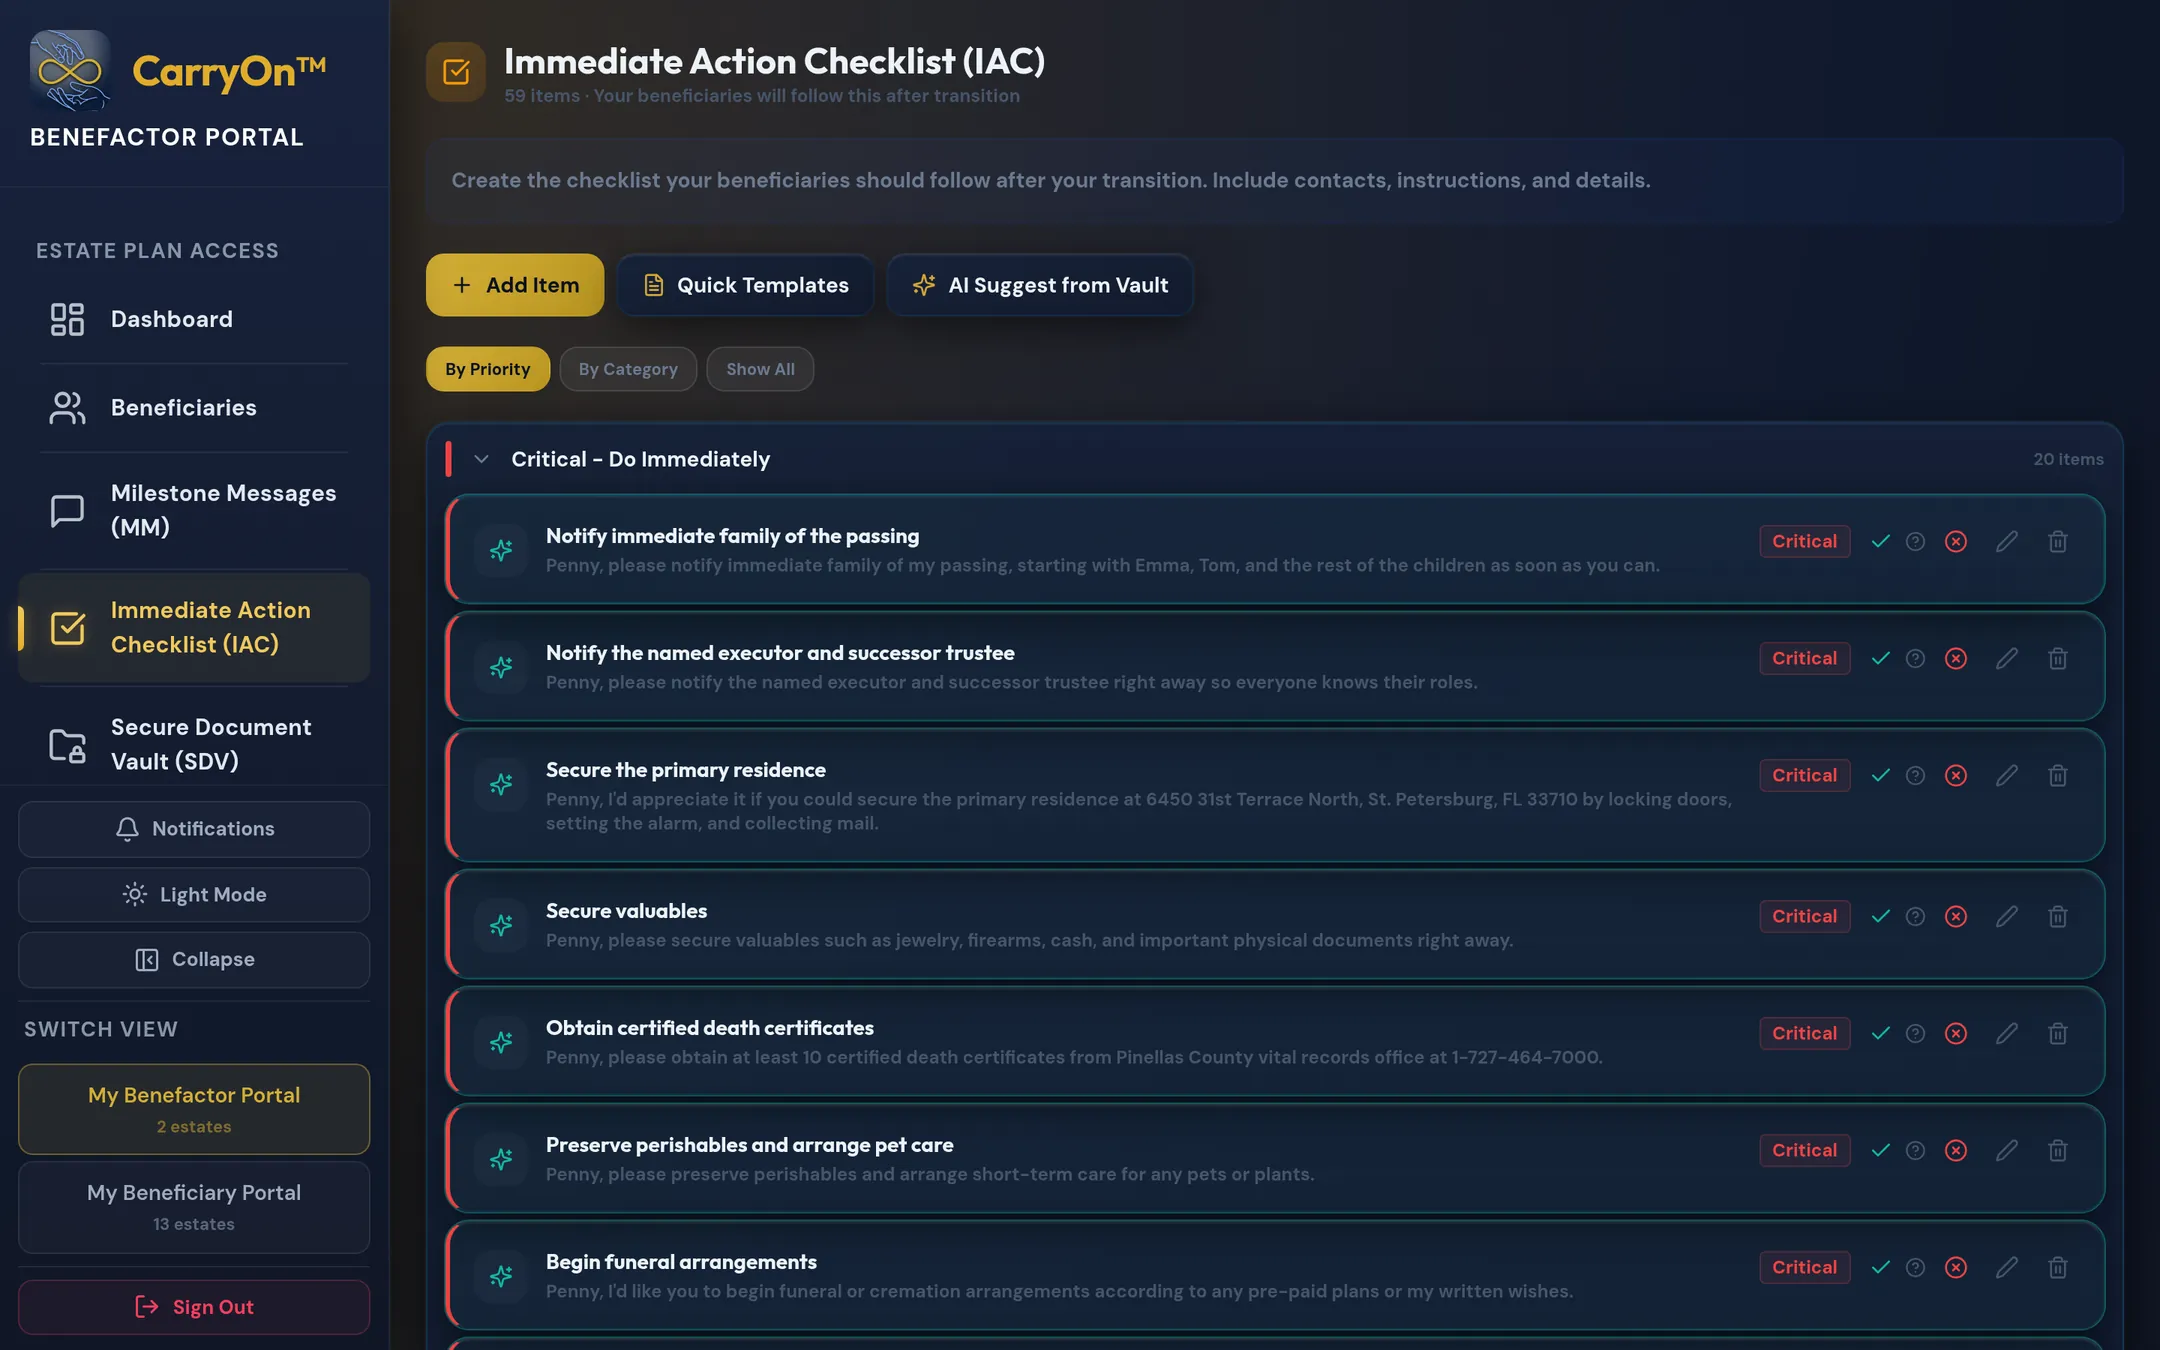
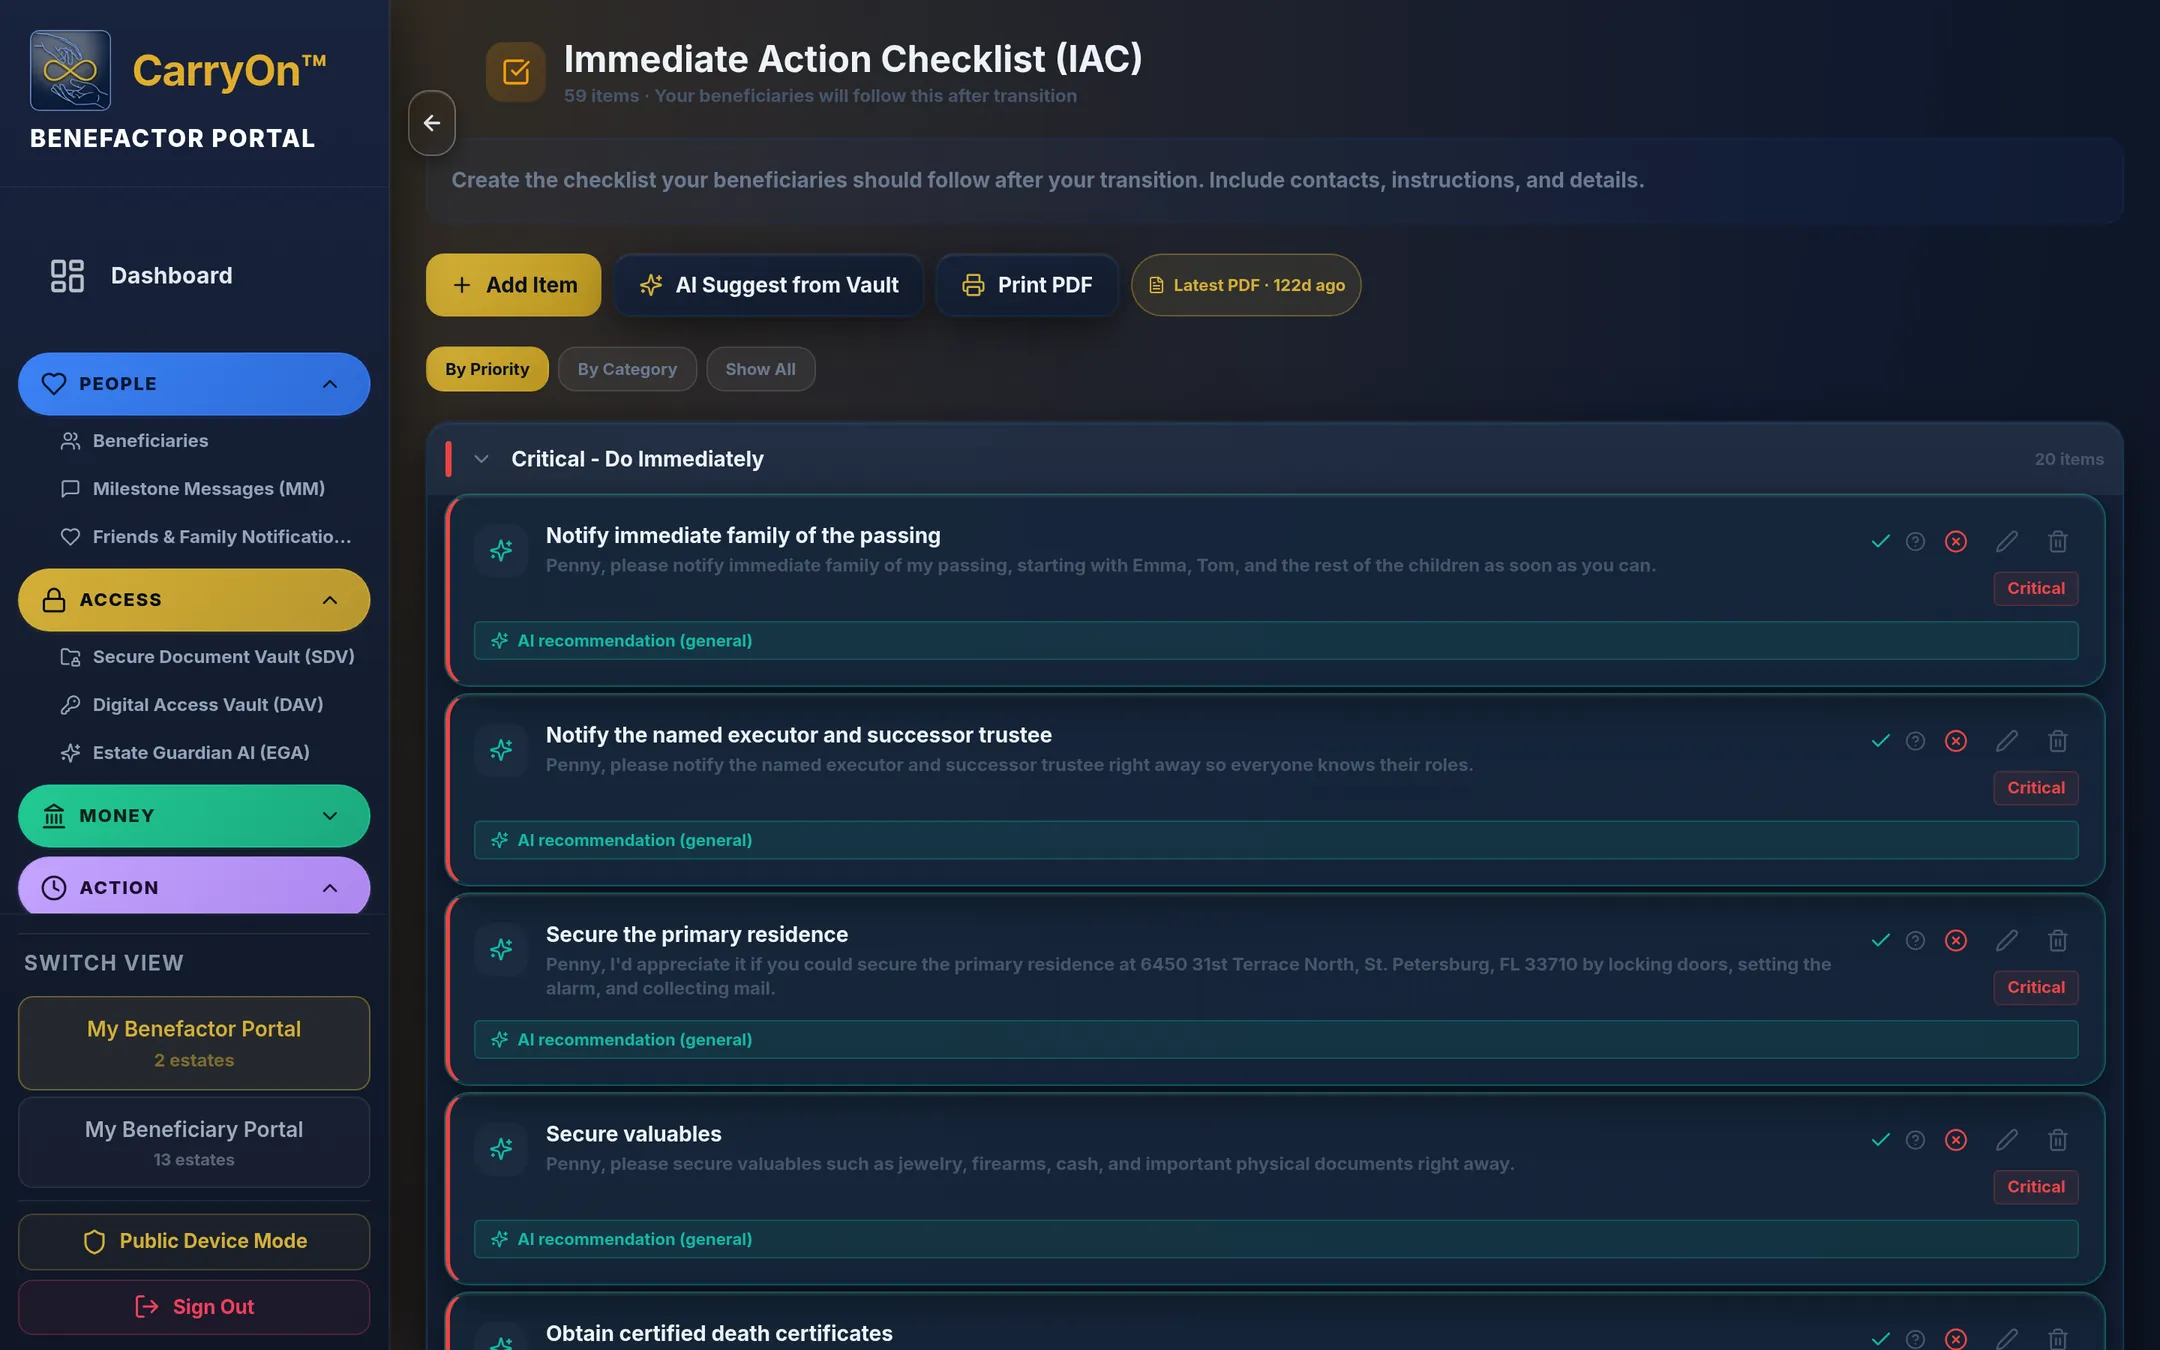
## Homepage product screenshots re-captured from your demo account (VERIFIED, NOT PUSHED) - Root cause: the 8 `/screenshots/*.webp` files (hero shot, "See inside CarryOn" tabs, How-It-Works phone) were shot Sep 16 while carryon.us still served the old marketing-branch build, so they showed the old d
Emergent-Commit-Key: 8adec7f94113c54b5896a259a2e50baf6dd117d05dde84c67a35ed1e8ae72e0e

diff --git a/frontend/src/components/landing/HeroShot.js b/frontend/src/components/landing/HeroShot.js
@@ -10,10 +10,10 @@ export const HeroShot = ({ testIdSuffix = '' }) => (
         <div className="flex gap-1.5">{['#ff5f57', '#febc2e', '#28c840'].map(c => <span key={c} className="w-2.5 h-2.5 rounded-full" style={{ background: c }} />)}</div>
         <div className="flex-1 flex items-center gap-2 rounded-md px-3 py-1 text-xs text-[#8b97ab]" style={{ background: 'rgba(255,255,255,0.04)' }}><Lock className="w-3 h-3 text-[#10b981]" /> carryon.us/dashboard</div>
       </div>
-      <img src="/screenshots/dashboard.webp" alt="CarryOn dashboard showing the family readiness score, financial health, and the estate's next steps" width="2160" height="1350" loading="eager" fetchPriority="high" className="w-full h-auto block" />
+      <img src="/screenshots/dashboard.webp" alt="CarryOn dashboard showing the four pillar tiles — People, Access, Money, Action — and a Total Family Continuity score of 72%" width="2160" height="1350" loading="eager" fetchPriority="high" className="w-full h-auto block" />
     </div>
     <div className="sm:hidden mx-auto max-w-[250px] rounded-t-[2rem] p-2 pb-0 overflow-hidden" style={{ background: 'linear-gradient(160deg, #1c2a44, #0b1322)', border: '1px solid rgba(255,255,255,0.16)', borderBottom: 'none', maxHeight: '300px', boxShadow: '0 -20px 60px rgba(0,0,0,0.55)' }}>
-      <img src="/screenshots/m-dashboard.webp" alt="CarryOn dashboard on a phone showing the family readiness score" width="780" height="1328" loading="eager" fetchPriority="high" className="w-full h-auto block rounded-t-[1.6rem]" />
+      <img src="/screenshots/m-dashboard.webp" alt="CarryOn dashboard on a phone showing the Total Family Continuity score" width="780" height="1328" loading="eager" fetchPriority="high" className="w-full h-auto block rounded-t-[1.6rem]" />
     </div>
   </div>
 );

diff --git a/frontend/src/components/landing/ProductPreview.js b/frontend/src/components/landing/ProductPreview.js
@@ -10,7 +10,7 @@ const TABS = [
     alt: 'CarryOn Immediate Action Checklist with critical first steps such as notifying family and obtaining death certificates',
     caption: 'Step-by-step instructions your family follows in the first days \u2014 written in your words, with the phone numbers already in them.' },
   { id: 'dashboard', label: 'Your dashboard', icon: LayoutDashboard, url: 'carryon.us/dashboard',
-    alt: 'CarryOn dashboard showing an estate readiness score of 67% and a financial health gauge',
+    alt: 'CarryOn dashboard showing the four pillar tiles — People, Access, Money, Action — and a Total Family Continuity score of 72%',
     caption: 'A readiness score that moves as you add documents, messages, and checklist items \u2014 so you always know where you stand.' },
   { id: 'vault', label: 'Document vault', icon: FolderLock, url: 'carryon.us/vault',
     alt: 'CarryOn Secure Document Vault listing a will, life insurance policy, power of attorney, trust, and living will',

diff --git a/frontend/public/sw-push.js b/frontend/public/sw-push.js
@@ -15,7 +15,7 @@
 // ── Versioning ──────────────────────────────────────────────────────────────
 // Bump SHELL_VERSION whenever the list of precached shell assets or the
 // caching strategy changes — triggers a cache purge on next SW activation.
-const SHELL_VERSION = 'build-2026-09-19-mu8izuo4';
+const SHELL_VERSION = 'build-2026-09-19-mu8nd7tf';
 const SHELL_CACHE = `carryon-shell-${SHELL_VERSION}`;
 const RUNTIME_CACHE = `carryon-runtime-${SHELL_VERSION}`;
 const API_CACHE = `carryon-api-${SHELL_VERSION}`;

diff --git a/frontend/src/components/landing/StepsShowcase.js b/frontend/src/components/landing/StepsShowcase.js
@@ -4,7 +4,7 @@ import { RevealSection } from './RevealSection';
 const STEP_SHOTS = ['contacts', 'dashboard', 'vault', 'checklist', 'dashboard'];
 const SHOT_ALT = {
   contacts: 'CarryOn beneficiaries screen on a phone showing the ranked list of who to call first',
-  dashboard: 'CarryOn dashboard on a phone showing the family readiness score',
+  dashboard: 'CarryOn dashboard on a phone showing the Total Family Continuity score',
   vault: 'CarryOn document vault on a phone listing a will, insurance policy, and power of attorney',
   checklist: 'CarryOn what-to-do-first checklist on a phone',
 };

diff --git a/scripts/capture_product_screenshots.py b/scripts/capture_product_screenshots.py
@@ -4,6 +4,7 @@ Run: SHOT_USER=... SHOT_PASS=... [SHOT_MODE=mobile] /opt/plugins-venv/bin/python
 import os
 import sys
 from PIL import Image
+from playwright.sync_api import TimeoutError as PlaywrightTimeoutError
 from playwright.sync_api import sync_playwright
 
 BASE = os.environ.get("SHOT_BASE_URL", "https://www.carryon.us")
@@ -12,8 +13,8 @@ PASS = os.environ["SHOT_PASS"]
 MOBILE = os.environ.get("SHOT_MODE") == "mobile"
 OUT = "/app/frontend/public/screenshots"
 PREFIX = "m-" if MOBILE else ""
-# Account-specific nudges hidden before shooting (onboarding wizard, push prompt, section-lock setup banners)
-HIDE_SELECTORS = '[data-testid="onboarding-wizard"], [data-testid="push-notification-prompt"], [data-testid^="lock-banner-"]'
+# Account-specific nudges hidden before shooting (QuickStart modal, onboarding wizard/action-item group, push prompt, section-lock setup banners)
+HIDE_SELECTORS = '[data-testid="quickstart-modal"], [data-testid="onboarding-wizard"], [data-testid="onboarding-prompts-group"], [data-testid="push-notification-prompt"], [data-testid^="lock-banner-"]'
 # Mirrors the responsive fix shipped in ChecklistPage.renderItemCard (actions wrap under the title on phones)
 CHECKLIST_MOBILE_CSS = """@media (max-width: 639px) {
   [data-testid^="iac-item-"] > div { flex-wrap: wrap; }
@@ -48,13 +49,18 @@ with sync_playwright() as p:
     page.wait_for_timeout(2500)
     print("logged in ->", page.url, "viewport", vw, vh)
     for name, path, click_text in PAGES:
-        page.goto(f"{BASE}{path}", wait_until="networkidle", timeout=60000)
+        try:
+            page.goto(f"{BASE}{path}", wait_until="networkidle", timeout=60000)
+        except PlaywrightTimeoutError:
+            pass  # a websocket / long-poll keeps the network busy — the page has rendered by now
         page.wait_for_timeout(3500)
         page.add_style_tag(content=CHECKLIST_MOBILE_CSS)
+        hide_js = f"(() => {{ const els = document.querySelectorAll('{HIDE_SELECTORS}'); els.forEach(e => e.style.display = 'none'); return els.length; }})()"
+        hidden = page.evaluate(hide_js)
         if click_text:
             page.get_by_text(click_text, exact=False).first.click()
             page.wait_for_timeout(800)
-        hidden = page.evaluate(f"(() => {{ const els = document.querySelectorAll('{HIDE_SELECTORS}'); els.forEach(e => e.style.display = 'none'); return els.length; }})()")
+        hidden += page.evaluate(hide_js)
         page.wait_for_timeout(500)
         out = f"{OUT}/{PREFIX}{name}.png"
         page.screenshot(path=out, full_page=False)

diff --git a/memory/PRD.md b/memory/PRD.md
@@ -574,7 +574,9 @@ bug — fix it in the preview DB immediately (snippet in
 - Hardcoded `rgba(212,175,55,…)` → `var(--gold-rgb)` sweep.
 
 ### Last verified end-to-end working item
-**Sep 19 2026 (latest) — Founder story Public / Invite-only switch + Site Copy migration (NOT PUSHED).** Admin → Marketing → Site Content → **Founder Story** toggle (`platform_settings.founder_story_public`, default invite-only). The story is a React page (`components/founder/FounderStory.js`), every string editable in Site Copy → "Founder story" (60 `founder.story.*` fields; old `founder-story.html` iframe deleted). Public → `/founder-about` open + indexable (sitemap at next deploy), homepage "Read his story" → `/founder-about`, "Founder story" link in all three footers, Invites tab shows a note. Invite-only → unchanged gate, "Read his story" → `/about`. iteration_209 pass; regression 31/31; check.sh ALL CLEAR. **Founder next**: push → on prod flip the switch in Site Content, open /founder-about logged out, check the homepage card link + footer link, edit a story paragraph in Site Copy; Redeploy once to list it in the sitemap.
+**Sep 19 2026 (latest, PM) — Homepage product screenshots re-captured (NOT PUSHED).** The 8 `/screenshots/*.webp` files (hero shot, "See inside CarryOn" tabs, How-It-Works phone) were shot Sep 16 from the old marketing-branch build; re-captured from `petemitchell` on carryon.us (People/Access/Money/Action dashboard, 72 % Total Family Continuity). Static by design — re-run `scripts/capture_product_screenshots.py` (see `public/screenshots/README.md`) whenever the demo account or UI changes. check.sh ALL CLEAR. **Founder next**: push → Vercel → reload the homepage and check the four preview tabs on desktop + phone.
+
+**Sep 19 2026 — Founder story Public / Invite-only switch + Site Copy migration (NOT PUSHED).** Admin → Marketing → Site Content → **Founder Story** toggle (`platform_settings.founder_story_public`, default invite-only). The story is a React page (`components/founder/FounderStory.js`), every string editable in Site Copy → "Founder story" (60 `founder.story.*` fields; old `founder-story.html` iframe deleted). Public → `/founder-about` open + indexable (sitemap at next deploy), homepage "Read his story" → `/founder-about`, "Founder story" link in all three footers, Invites tab shows a note. Invite-only → unchanged gate, "Read his story" → `/about`. iteration_209 pass; regression 31/31; check.sh ALL CLEAR. **Founder next**: push → on prod flip the switch in Site Content, open /founder-about logged out, check the homepage card link + footer link, edit a story paragraph in Site Copy; Redeploy once to list it in the sitemap.
 
 **Sep 19 2026 — heycatch.ai audit pass (NOT PUSHED).** Compare nav link, hero live-count badge, 154-char meta description, 570-hours stat, social-JTBD outcome card, checklist-first product preview, plain-English DAV/EGA cards, no "Four pillars. Twelve tools" on public pages, /security leads with "scrambled before it’s stored", founder LinkedIn baked in, Trustpilot card + onboarding review ask gated on `trustpilot_url` (Admin → Site Content). iteration_69 pass; check.sh ALL CLEAR. **Founder next**: push → collect 3–5 testimonials (/customers form → approve) → create Trustpilot profile and paste URL → update the brief's prices before re-running the audit.
 

diff --git a/frontend/public/screenshots/README.md b/frontend/public/screenshots/README.md
@@ -2,7 +2,10 @@
 
 Real screenshots of CarryOn captured from the LIVE production site (https://www.carryon.us)
 using the demonstration account `petemitchell`. Rendered by
-`src/components/landing/ProductPreview.js`.
+`src/components/landing/ProductPreview.js`, `HeroShot.js` and `StepsShowcase.js`.
+
+Last captured: **Sep 19, 2026** (current People / Access / Money / Action build; Total Family
+Continuity 72%, 10 beneficiaries, 7 documents, 59-item IAC).
 
 | File | Viewport | Shown on |
 |------|----------|----------|
@@ -12,11 +15,12 @@ using the demonstration account `petemitchell`. Rendered by
 `contacts` = `/beneficiaries` page ("Who to call first" tab). `checklist` = `/checklist` with the
 "Critical – Do Immediately" group expanded.
 
-## Regenerate
+## Regenerate (whenever the demo account or the product UI changes)
 ```bash
 SHOT_USER=petemitchell SHOT_PASS='<see /app/memory/test_credentials.md>' /opt/plugins-venv/bin/python /app/scripts/capture_product_screenshots.py
 SHOT_MODE=mobile SHOT_USER=petemitchell SHOT_PASS='…' /opt/plugins-venv/bin/python /app/scripts/capture_product_screenshots.py
 ```
-The script hides only account-specific nudges (onboarding wizard, push prompt, "Section Unlocked"
-banners) before shooting. Nothing else is edited — keep it that way; the site says
-"Nothing mocked up."
+The script hides only account-specific nudges (QuickStart modal, onboarding wizard / action-item
+group, push prompt, "Section Unlocked" banners) before shooting. Nothing else is edited — keep it
+that way; the site says "Nothing mocked up." If the dashboard alt text in `ProductPreview.js` /
+`HeroShot.js` quotes a score, update it to match the new capture.

diff --git a/memory/CHANGELOG.md b/memory/CHANGELOG.md
@@ -1,6 +1,12 @@
 # CarryOn — Changelog
 
 
+## Sep 19, 2026 (later) — Homepage product screenshots re-captured from the live demo account — VERIFIED, NOT PUSHED
+
+- Root cause of "the screenshots aren't from my demo account": the eight `/screenshots/*.webp` files were shot on Sep 16 while carryon.us still served the old marketing-branch build (old "Estate Readiness / Financial Health" dashboard). The published product has since moved to the People / Access / Money / Action build, so the pictures no longer matched `petemitchell`.
+- Re-captured all 8 (desktop 2160×1350 + iPhone 780×1328) from `petemitchell` on carryon.us with `scripts/capture_product_screenshots.py`; script now also hides the QuickStart modal and the dashboard "Onboarding — N action items" group, and tolerates `networkidle` timeouts on `/beneficiaries` (websocket). Dashboard alt text updated (72 % Total Family Continuity). README in `public/screenshots/` records the capture date + regenerate steps. Prod demo password confirmed `Demo1234!!!` (`test_credentials.md`). check.sh ALL CLEAR.
+
+
 ## Sep 19, 2026 — Founder story: Public / Invite-only switch + full Site Copy migration (iteration_209) — VERIFIED, NOT PUSHED
 
 - **Switch**: `platform_settings.founder_story_public` (default false). Accepted by `PUT /api/admin/platform-settings`; exposed on `GET /api/public/site-content` and as `flags.founder_story_public` on `GET /api/public/site-copy` (so nav/footers react instantly through `CopyContext`). Card **Admin → Marketing → Site Content → Founder Story** (`founder-story-public-toggle`). Operations → Invites shows a note while public (`founder-story-public-note`).

diff --git a/memory/test_credentials.md b/memory/test_credentials.md
@@ -17,7 +17,8 @@ Token is returned as `access_token`; frontend stores it in `localStorage.carryon
 - Note: if this account ever shows role=admin again, that is stale data — set role back to benefactor.
 
 ## Production demo account (carryon.us — marketing screenshots only)
-- Username: petemitchell · Password: Demo1234!!! · benefactor · LIVE prod only (not in preview DB)
+- Username: petemitchell · Password: Demo1234!!! (three `!` — confirmed by founder Sep 19, 2026) · benefactor · LIVE prod only (not in preview DB)
+- Used by `scripts/capture_product_screenshots.py` (homepage product screenshots). On prod this login resolves to info@carryon.us.
 
 ## Environment facts (preview)
 - Preview DB mirrors LIVE config via `python backend/scripts/mirror_live_config.py` (beta_mode=false, family discounts 30%/50%, live prices + feature gates). Run with `--check` for a drift report.
